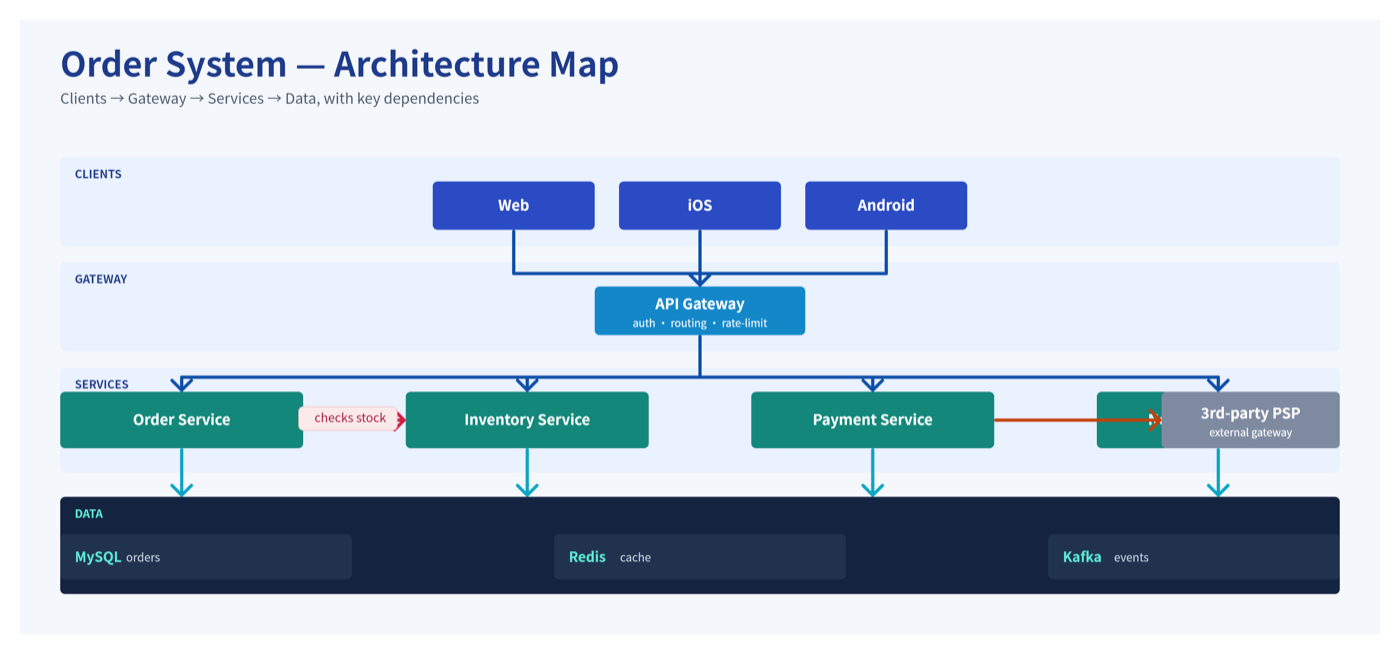
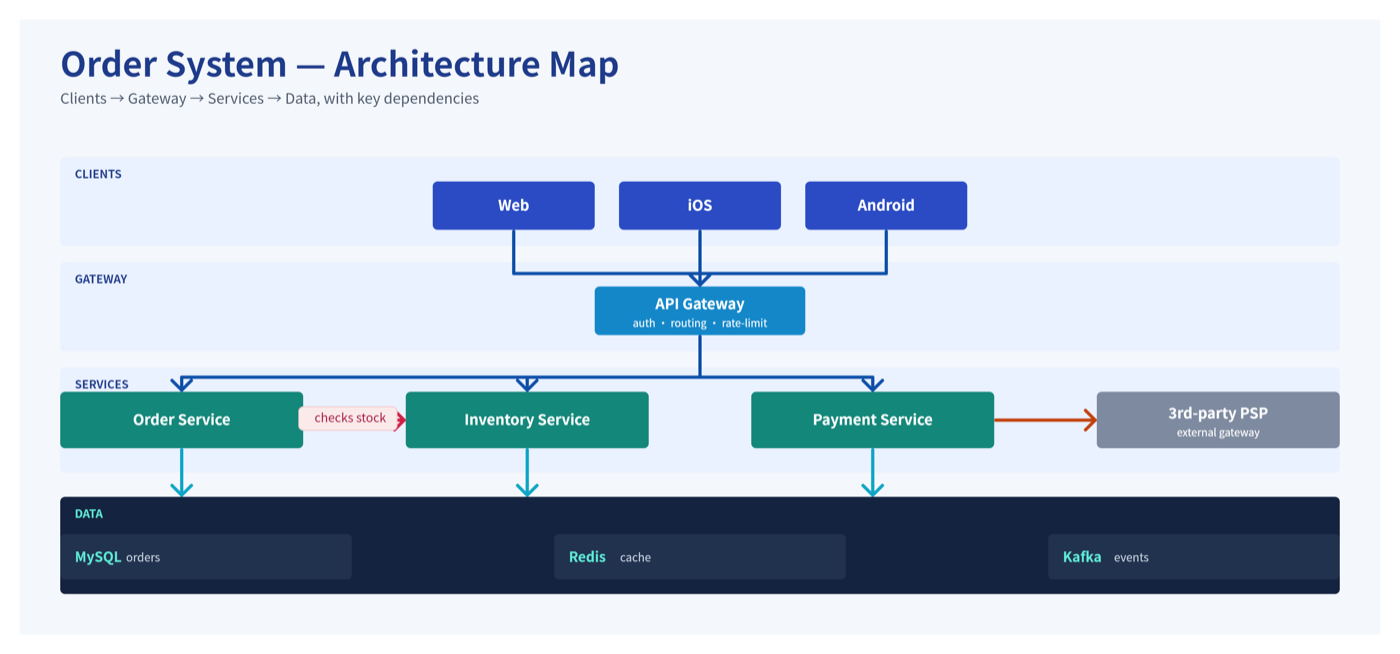
Fix system_map: external PSP overlapped the 4th service
Lay the services row as 3 internal services + 1 external PSP in evenly
spaced slots, so the gray external box no longer collides with a service.
Payment -> PSP is now a clean horizontal arrow. Re-rendered: 0 overlap.

Changed region(s): [[0.6143, 0.5505, 0.9214, 0.7034], [0.86, 0.7339, 0.8907, 0.7645]]

diff --git a/examples/system_map.py b/examples/system_map.py
@@ -40,12 +40,15 @@ for i, c in enumerate(clients):
 # gateway (center)
 gw_w = 260; gw_x = (W-gw_w)/2
 box(gw_x, cy2, gw_w, 60, "API Gateway", "#1487C9", sub="auth · routing · rate-limit")
-# services
-svcs = ["Order","Inventory","Payment","Notification"]
-sw = 300; gap = (inner - len(svcs)*sw)/(len(svcs)-1)
-sx = [P + i*(sw+gap) for i in range(len(svcs))]
+# services row = 3 internal services + 1 external (PSP), evenly spaced so nothing collides
+svcs = ["Order Service", "Inventory Service", "Payment Service"]
+ncell = len(svcs) + 1                      # reserve the 4th slot for the external gateway
+sw = 300; gap = (inner - ncell*sw)/(ncell-1)
+sx = [P + i*(sw+gap) for i in range(ncell)]
 for i, s in enumerate(svcs):
-    box(sx[i], cy3, sw, 70, s+" Service", "#13877A")
+    box(sx[i], cy3, sw, 70, s, "#13877A")
+# external PSP occupies the 4th slot — gray = outside our system
+box(sx[3], cy3, sw, 70, "3rd-party PSP", "#7E8AA0", sub="external gateway")
 # data
 data = [("MySQL","orders"),("Redis","cache"),("Kafka","events")]
 dw = 360; dgap = (inner - len(data)*dw)/(len(data)-1)
@@ -59,22 +62,20 @@ for i,(d,role) in enumerate(data):
 for i in range(len(clients)):
     x = cx0+i*(cw+30)+cw/2
     b.polyline([(x, cy1+60), (x, cy2-16), (gw_x+gw_w/2, cy2-16), (gw_x+gw_w/2, cy2)], LINK)
-# gateway -> services (fan out)
+# gateway -> internal services only (fan out)
 for i in range(len(svcs)):
     cxx = sx[i]+sw/2
     b.polyline([(gw_x+gw_w/2, cy2+60), (gw_x+gw_w/2, cy3-18), (cxx, cy3-18), (cxx, cy3)], LINK)
-# services -> data
+# internal services -> data
 for i in range(len(svcs)):
     cxx = sx[i]+sw/2
     b.arrow(cxx, cy3+70, cxx, 590, "#0EA5C4")
-# dependency notes (dashed-feel via colored connectors + chips)
+# dependency notes (colored connectors + chips)
 b.polyline([(sx[0]+sw, cy3+35), (sx[1], cy3+35)], "#D11F44")
 b.rect(sx[0]+sw-6, cy3+18, text_w("checks stock",15)+18, 30, "#FBEAEA", rx=7, stroke="#F0C4C4", sw=1.1)
 b.text(sx[0]+sw+3+ (text_w("checks stock",15)+6)/2, cy3+38, "checks stock", 15, "#9F1239", "regular", "middle")
-# external PSP
-psp_x = sx[2]+sw/2
-box(W-P-220, cy3, 220, 70, "3rd-party PSP", "#7E8AA0", sub="external gateway")
-b.polyline([(sx[2]+sw, cy3+35), (W-P-220, cy3+35)], "#C2410C")
+# Payment -> external PSP (adjacent slots, clean horizontal hop)
+b.arrow(sx[2]+sw, cy3+35, sx[3], cy3+35, "#C2410C")
 
 b.save("/tmp/system_map.svg")
 print("wrote /tmp/system_map.svg")
